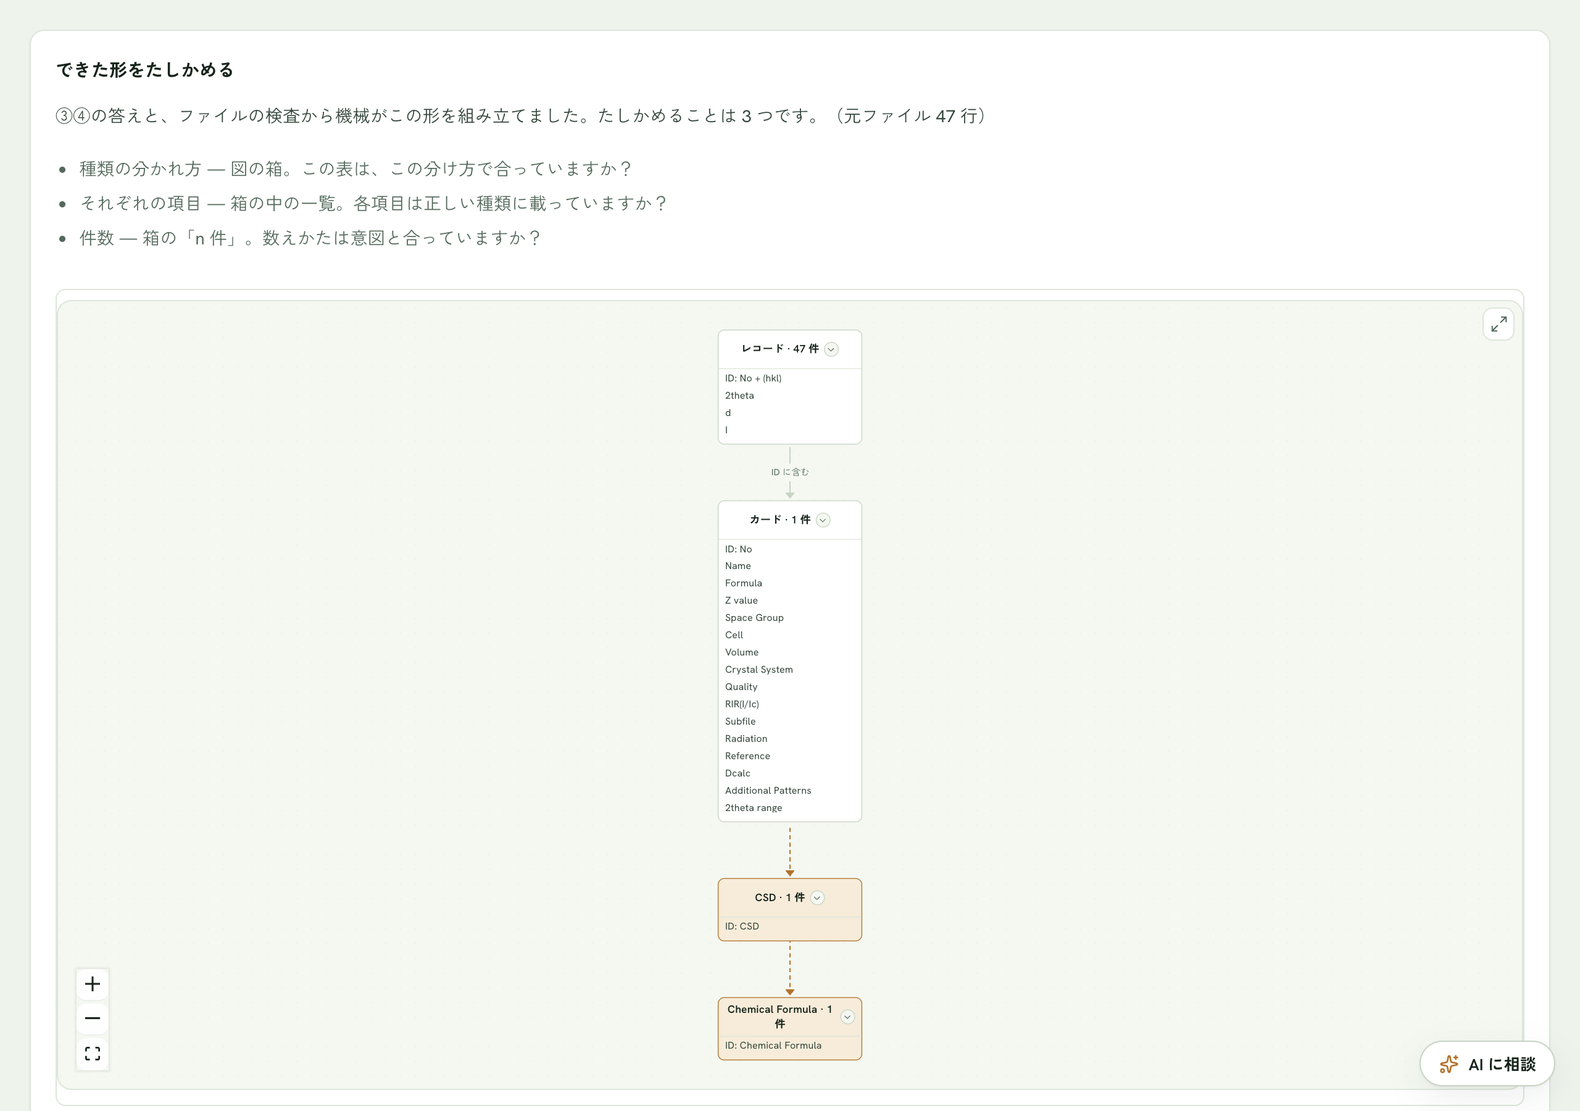
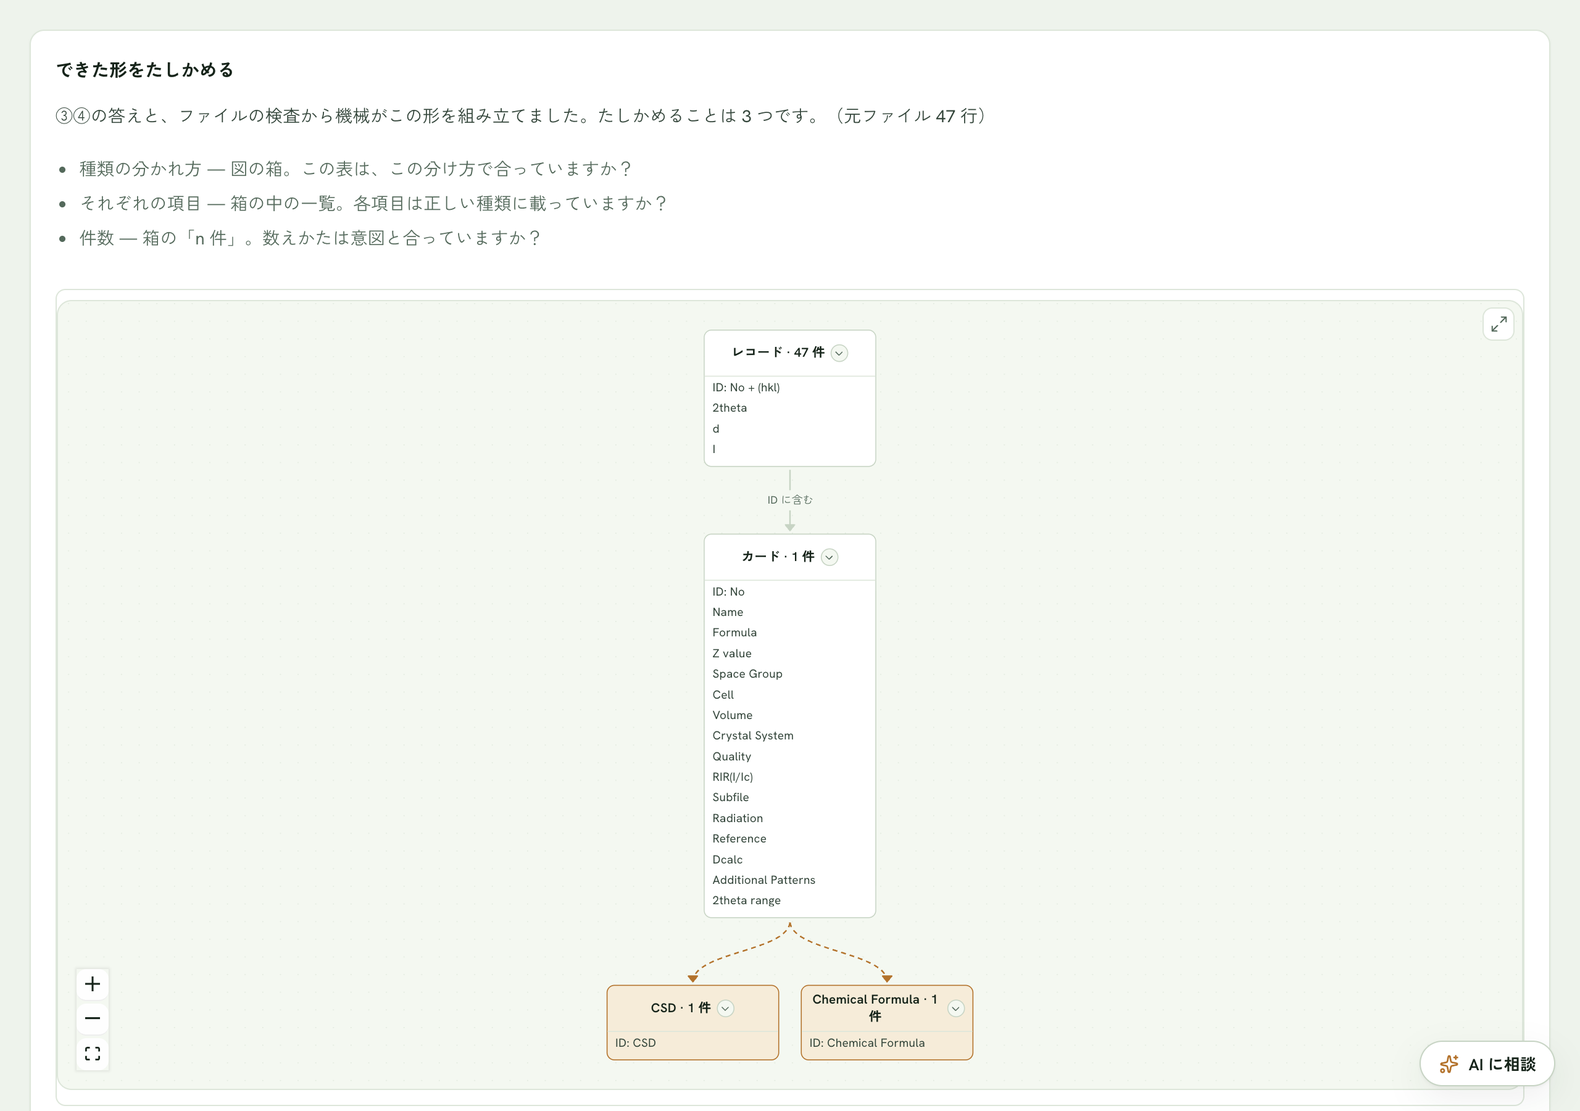
fix(ui): ⑤の情報ダイエットと表の読み順統一 — 実使用フィードバック 5 点
- 表の列順を全段で「列名 → 値 → 意味 → …」に統一（③が列名→意味→単位→値
  の並びで、②④との突き合わせで迷う — 利用者指摘）
- ④のにんじん図解を中央揃え
- ⑤の図: 同じ深さの箱を 2 列で折り返す。受け口が 2 つのとき縦の直列に
  見えて、どの箱からの線か読めなかった。layout は深さ別折り返しなので
  親子が横に並ぶことはない
- データセットの名前を「名前・ID を直す」の中へ — 既定画面では「形が
  違うとき」の見出しの下に常設情報があるように見えていた
- 「AI にもう一度考えさせる」を直しタブの 4 つ目に — 常時表示のリードと
  テキストエリアが画面の情報量を膨らませていた

結果、⑤の既定表示は「リード・確認 3 点・図・凡例・直し 4 ボタン・進む」
だけになり 1 画面に収まる。manual・スクリーンショット追随。

diff --git a/docs/manual/ja/getting-started.html b/docs/manual/ja/getting-started.html
@@ -39,10 +39,10 @@
 <ol><li>で機械が仮の ID を置いたときは、箱の中に「（仮・機械の推定）」と書かれ、</li></ol>
 <p>図の下に ⚠ が出ます。そのままでも進めますが、違うときは ⚠ の横の「名前・ID を直す」ボタンで、その種類の ID を選び直せます。また、同じ ID で数える種類が 2 つあり、しかも同じ項目を持っているときも ⚠ が出ます。重複そのものが禁止なわけではありません— 同じものの写しなら要らない方を消す、別のものなら項目を分ければ ⚠ は消えます。迷ったら「重複を AI に相談」ボタンで具体的に聞けます。</p>
 <p>3 点が合っていれば「この形で進む」ボタンで次へ。それで終わりです。4. の ☑を変えたくなったら「← ④に戻って ☑ を変える」ボタンで戻れます（戻って ☑ を変えると、形は組み立て直しになります）。</p>
-<p>形が違うときは、「形が違うとき（直す）」の下の 3 つから直しかたを選びます。</p>
-<ul><li>「名前・ID を直す」ボタン — 種類ごとの名前と ID の作り方を確かめて直します。図の箱をクリックしても、その種類の直しが開きます</li><li>「1 つの種類を 2 つに分ける」ボタン — 1 行に別々のもの（例: 測定の記録と、測定した対象）が混ざっているとき。「＋ 同じ ID で種類を足す」ボタンで、いまの ID をそのまま使う種類をもう 1 つ足し、名前を付けて「足す」ボタンを押すと種類が増えます。増やした種類に載せる項目は「項目を移す」で移します</li><li>「項目を移す」ボタン — どの種類が、どの項目を持つかの一覧が開きます。右の「載せる種類」を選び直すと、その項目を持つ種類が変わり、図の箱も同時に変わります。どの値を ID にするか（☑）は 4. で決めたとおりです — 変えたいときは「← ④に戻って ☑ を変える」ボタンを使ってください</li></ul>
+<p>形が違うときは、「形が違うとき（直す）」の下の 4 つから直しかたを選びます。</p>
+<ul><li>「名前・ID を直す」ボタン — 種類ごとの名前と ID の作り方を確かめて直します。図の箱をクリックしても、その種類の直しが開きます</li><li>「1 つの種類を 2 つに分ける」ボタン — 1 行に別々のもの（例: 測定の記録と、測定した対象）が混ざっているとき。「＋ 同じ ID で種類を足す」ボタンで、いまの ID をそのまま使う種類をもう 1 つ足し、名前を付けて「足す」ボタンを押すと種類が増えます。増やした種類に載せる項目は「項目を移す」で移します</li><li>「項目を移す」ボタン — どの種類が、どの項目を持つかの一覧が開きます。右の「載せる種類」を選び直すと、その項目を持つ種類が変わり、図の箱も同時に変わります。どの値を ID にするか（☑）は 4. で決めたとおりです — 変えたいときは「← ④に戻って ☑ を変える」ボタンを使ってください</li><li>「AI にもう一度考えさせる」ボタン — いまの設計を渡して、注文を付けたところだけ AI に直させます。この画面でやった編集（種類の名前・ID の作り方・削除・切り出し）は残ります。データセットの名前（ID に使われる英字名）は「名前・ID を直す」の中で変えられます</li></ul>
 <p>逆に、組み上がった形が行ごとの種類だけで「ファイル全体で 1 件」が無いときは、⚠ と「＋ ファイル全体の種類を作る」ボタンが出ます。押すと、ファイルに一度だけ書かれている値（カタログ番号や測定条件など）が、まとまった 1 件に分かれます。</p>
-<p>わからなければ、いったんそのまま進んで構いません。公開するまでは、この画面に戻って何度でも直せます（種類を足す・消す・項目を移す）。動かせなくなるのは、公開して ID を配ったあとだけです。相談したいときは右下の「AI に相談」ボタンで相談チャットが開きます。読み取りが違っていたら「AI にもう一度考えさせる」ボタンで指摘を伝えられます。前の画面に戻りたいときは「戻ってやり直す」ボタンです。</p>
+<p>わからなければ、いったんそのまま進んで構いません。公開するまでは、この画面に戻って何度でも直せます（種類を足す・消す・項目を移す）。動かせなくなるのは、公開して ID を配ったあとだけです。相談したいときは右下の「AI に相談」ボタンで相談チャットが開きます。前の画面に戻りたいときは「戻ってやり直す」ボタンです。</p>
 <p>続いて「数の確認」の画面が出ます。元のファイルの行数と、できた記録の件数が合っているかを見てください。件数が行数よりずっと少ないときは、複数の行が1 件にまとまっています。意図と違えば「かたちの確認に戻る」ボタンで戻れます。ここでも項目の意味・単位は直せます。問題なければ「この意味で確定」ボタンです。</p>
 <p>ID が重なっている種類があると、「進む前に、確かめてください。」という確認が出ます。種類ごとに「この行を確かめる」で中身を見て直すか、そのままでよければ「このまま進む」で先に進めます（同じ ID の行は 1 件にまとまります）。</p>
 <figure><a href="../screenshots/kantan-id-confirm.png" title="原寸で開く"><img src="../screenshots/kantan-id-confirm.png" alt="ID が重なっているときに出る確認"></a></figure>

diff --git a/ui/src/SkeletonGate.tsx b/ui/src/SkeletonGate.tsx
@@ -1082,7 +1082,7 @@ export function SkeletonGate({
      開かない = グラフを読むだけ。names = ②のタブ（名前と ID）、split = 同じ ID の
      種類を足す、move = ①の表（載せる種類）。ADR の 4 カードのうち rename と
      rekey は、両方の家である②のタブに 1 枚で相乗りする。 */
-  const [plainFix, setPlainFix] = useState<'names' | 'split' | 'move' | null>(null)
+  const [plainFix, setPlainFix] = useState<'names' | 'split' | 'move' | 'rethink' | null>(null)
   // A dataset name that cleans away to nothing (a Japanese one) used to do
   // NOTHING at all — the field kept the typed text and the ID kept the old
   // slug. Say what an ID may contain, right under the field.
@@ -1963,7 +1963,10 @@ export function SkeletonGate({
           setOpenKind(id)
           if (plain) setPlainFix('names')
         }}
-        perRow={plain ? 1 : 3}
+        /* 同じ深さの受け口が 2 つ以上あるとき、1 列だと縦に直列に見えて
+           「どの箱からの線か」が読めない（利用者指摘 2026-09-01）。layout は
+           深さ別に折り返すので、2 にしても親子が横に並ぶことはない。 */
+        perRow={plain ? 2 : 3}
         nodeWidth={176}
         maxHeight={plain ? 640 : 440}
         /* 項目は既定で全部見せる（ADR D4: 省略したら確かめられない）。畳むのは
@@ -2849,13 +2852,16 @@ export function SkeletonGate({
                 ['names', 'fixNames'],
                 ['split', 'fixSplit'],
                 ['move', 'fixMove'],
+                ['rethink', 'fixRethink'],
               ] as const
             ).map(([id, key]) => (
               <button
                 key={id}
                 type="button"
                 className={plainFix === id ? 'btn btn--sm' : 'btn btn--ghost btn--sm'}
-                disabled={id !== 'names' && !zone}
+                disabled={
+                  id === 'rethink' ? !onRethink : id !== 'names' ? !zone : false
+                }
                 onClick={() => setPlainFix(plainFix === id ? null : id)}
               >
                 {t(`skeletongate:${key}`)}
@@ -2863,6 +2869,10 @@ export function SkeletonGate({
             ))}
           </div>
 
+          {/* データセットの名前（ID の接頭）も「名前・ID」の一部 — 既定画面
+              には出さない（利用者指摘 2026-09-01: 直しの見出しの中に常設情報が
+              あるように見える）。 */}
+          {plainFix === 'names' && nsCard}
           {plainFix === 'names' && kindBlocks.length > 1 && (
             /* 種類ごとに切り替える。カードを縦に積むと、種類が増えるほど「まだ
                答えていない種類」が下へ押し出されて見えなくなる（利用者の指摘
@@ -3144,7 +3154,6 @@ export function SkeletonGate({
       {/* The kantan tier reads the table FIRST (that is the one question this
           screen asks) and meets the naming card after — settled, one line, on
           the way out. The detail tier keeps the card above the table. */}
-      {plain && nsCard}
       {/* AI-redo exit: when the skeleton is STRUCTURALLY wrong (wrong split
           into kinds, wrong key idea), editing cells is the wrong tool — hand
           a plain-language note back to the generation instead. */}
@@ -3164,7 +3173,7 @@ export function SkeletonGate({
           候補チップを主導線として残す。詳細モードは onRethink を渡していないので
           今は plain にしか出ないが、将来渡されたときに詳細モードまで畳まれない
           よう、ガードを明示しておく。 */}
-      {plain && onRethink && (
+      {plain && onRethink && plainFix === 'rethink' && (
         <div className="skeleton-rethink">
           <p className="skeleton-evidence-label" id="skeleton-rethink-label">
             {t('workbench:skeleton.rethink.label')}

diff --git a/ui/src/kantan/KantanWizard.tsx b/ui/src/kantan/KantanWizard.tsx
@@ -6383,10 +6383,13 @@ export function KantanWizard({
                   <table className="kz-preview-table kz-cols-table kz-meaning-table">
                     <thead>
                       <tr>
+                        {/* 並びは全段共通の「列名 → 値 → 意味 → …」（②の
+                            プレビュー・④のつながり表と同じ読み順 — 利用者指摘
+                            2026-09-01: 段ごとに順番が違うと突き合わせで迷う）。 */}
                         <th>{t('kantan:meanings.colColumn')}</th>
+                        <th>{t('kantan:meanings.colExamples')}</th>
                         <th>{t('kantan:meanings.colMeaning')}</th>
                         <th>{t('kantan:meanings.colUnit')}</th>
-                        <th>{t('kantan:meanings.colExamples')}</th>
                         <th>{t('kantan:meanings.colKeep')}</th>
                       </tr>
                     </thead>
@@ -6419,6 +6422,15 @@ export function KantanWizard({
                                   )}
                                 </>
                               )}
+                            </td>
+                            <td className="kz-cols-examples">
+                              {/* 実データは「見分けがつく」ところまでで十分。1 つの長い
+                                  値（この XRD カードなら注記の行）で表が横に伸び、右端の
+                                  「取り込む」が画面の外へ出た（実機 2026-08-28）。 */}
+                              {row.examples
+                                .slice(0, 3)
+                                .map((v) => (v.length > 44 ? `${v.slice(0, 44)}…` : v))
+                                .join(' / ') || '—'}
                             </td>
                             <td>
                               <input
@@ -6462,15 +6474,6 @@ export function KantanWizard({
                               {/* 書いた単位が標準（QUDT）に届いたか。届かない綴りを
                                   黙って受けると、単位の三つ組だけが出ない (ADR §3)。 */}
                               <UnitBadge info={unitInfo[(current?.unit ?? '').trim()]} />
-                            </td>
-                            <td className="kz-cols-examples">
-                              {/* 実データは「見分けがつく」ところまでで十分。1 つの長い
-                                  値（この XRD カードなら注記の行）で表が横に伸び、右端の
-                                  「取り込む」が画面の外へ出た（実機 2026-08-28）。 */}
-                              {row.examples
-                                .slice(0, 3)
-                                .map((v) => (v.length > 44 ? `${v.slice(0, 44)}…` : v))
-                                .join(' / ') || '—'}
                             </td>
                             <td>
                               {/* 既定は「取り込む」。外すのは必ず人の操作なので、

diff --git a/ui/src/App.css b/ui/src/App.css
@@ -6828,6 +6828,7 @@ button.ds-artifact:disabled {
   gap: var(--space-4);
   margin: var(--space-2) 0;
   flex-wrap: wrap;
+  justify-content: center;
 }
 .kz-links-mini {
   border: 1px solid var(--border);

diff --git a/docs/ROADMAP.md b/docs/ROADMAP.md
@@ -71,6 +71,8 @@
 
 ## 更新 log
 
+- 2026-09-01: **⑤の情報ダイエット + 表の読み順統一（branch `fix/gate-info-diet`）**。利用者の実使用フィードバック 5 点。①**表の列順を全段で「列名 → 値 → 意味 → …」に統一**（③が 列名→意味→単位→値 で、②④と突き合わせで迷う）②④のにんじん図解を中央揃え ③**⑤の図を同深度 perRow=2 に**（受け口 2 つが縦の直列に見え、どの箱からの線か読めなかった — layout は深さ別折り返しなので親子が横に並ぶことはない）④**データセットの名前を「名前・ID を直す」の中へ** ⑤**「AI にもう一度考えさせる」を直しタブの 4 つ目に**（常時表示のリード＋テキストエリアが画面の情報量を膨らませていた）。結果、⑤の既定表示は「リード・3 点・図・凡例・直し 4 ボタン・進む」だけで 1 画面に収まる。manual 追随。
+
 - 2026-09-01: **PR 溜まりの整理（v0.31.6）**。#486（dependabot の自動 major ラベル停止・護身）→ 定型 actions 更新 5 本（#481-483/#485/#501）→ #484 tauri-action 0→1（メジャー・次のデスクトップビルドで実地検証）を全部マージ。⭐#501 は #486 マージ**前**に作られたため major ラベル付きのまま — マージ後に気づき、tagpr の再計算が走り切る前にラベルを REST で剥がして v1.0.0 事故を回避（**dependabot.yml の labels 設定は既存 PR には効かない** — 既に開いている PR はマージ前にラベル確認）。#480（相談 identifiers に判断材料）は**コンフリクト＋前提陳腐化＋使い捨てハーネス混入のため close** — 価値の残る「列の実値を相談へ」は新設計前提で作り直し（#506）: ④（step 11）の consult context に step 10 と同じ columns（名前・意味・実値 3 例）を送る 1 条件の変更。基準 3 行の注入は不要になった — ④の「付けるもの/付けないもの」がマニュアル §4 経由で相談プロンプトに入っている。
 - 2026-09-01: **⑤の図を annotations 非依存に（v0.31.5・branch `fix/graph-without-annotations`）**。利用者問い「カード無し CSV で親がいない・⑤で図が出ない」。⭐検証の結果、**カード無し自体は正常**（ファイル全体の事実が無い＝親不在が正直な形。K32 の宿主フォールバックで assemble 経路の図は出る — 素の 4 行 CSV + ☑ formula で実証: レコード + formula 受け口 + 点線）。図が消えるのは **zone（annotations 依存）に図全体が入っていた**ため、annotations が無い場面（設計の見直しで元ファイル無し・検査前）で丸ごと消える構造だった。修正 = 図の一式（図・凡例・仮 ⚠）の条件を `plain && maps.length > 0` に変え、zone 無しのフォールバックを骨格だけで組む: ラベル=カタログはその列名・他は名前 ?? レコード、項目=**宣言 owns**（assemble 骨格は全種類が持つ）、琥珀=`isValueCatalog`（owns がテンプレートの単独キーと一致）、点線=同ソースの非カタログ→カタログ。annotations 完全 null で全要素（ID 行・項目・琥珀・点線）の描画をハーネス実証。件数だけは annotations 待ち（無ければラベルに出さない＝嘘をつかない）。manual に「カード無しは正常」を明記。
 - 2026-09-01: **④の値を見えるように（v0.31.4・branch `fix/links-values-visible`）**。利用者指摘=「例は値（にんじん）が主役なのに、表は列名と意味だけで値が見えない。種類なのか値なのか分からない」。②行ごとの列は「（行ごとに変わる）」だけで**実物の値が見えず**、「同じ表記で他にも出てくるか」を判断できなかった → 実際の値の例を最大 3 つ表示（`Al3 V、TiO2 …（行ごとに変わる）`）。②リード文が「値に ☑」と書いていた（☑ の単位は**列**・つながる単位は**値**）→ 「その値が入っている列に ☑」に書き換え、にんじん例で「☑ は『食材名』の列」と明示。manual 追随。

diff --git a/manual/ja/getting-started.md b/manual/ja/getting-started.md
@@ -124,7 +124,7 @@ ID の入れ子（子の ID が親の ID を含む）、点線は取り込むと
 を変えたくなったら「← ④に戻って ☑ を変える」ボタンで戻れます（戻って ☑ を
 変えると、形は組み立て直しになります）。
 
-形が違うときは、「形が違うとき（直す）」の下の 3 つから直しかたを選びます。
+形が違うときは、「形が違うとき（直す）」の下の 4 つから直しかたを選びます。
 
 - 「名前・ID を直す」ボタン — 種類ごとの名前と ID の作り方を確かめて直し
   ます。図の箱をクリックしても、その種類の直しが開きます
@@ -136,6 +136,10 @@ ID の入れ子（子の ID が親の ID を含む）、点線は取り込むと
   右の「載せる種類」を選び直すと、その項目を持つ種類が変わり、図の箱も同時に
   変わります。どの値を ID にするか（☑）は 4. で決めたとおりです — 変えたい
   ときは「← ④に戻って ☑ を変える」ボタンを使ってください
+- 「AI にもう一度考えさせる」ボタン — いまの設計を渡して、注文を付けた
+  ところだけ AI に直させます。この画面でやった編集（種類の名前・ID の作り方・
+  削除・切り出し）は残ります。データセットの名前（ID に使われる英字名）は
+  「名前・ID を直す」の中で変えられます
 
 逆に、組み上がった形が行ごとの種類だけで「ファイル全体で 1 件」が無いときは、
 ⚠ と「＋ ファイル全体の種類を作る」ボタンが出ます。押すと、ファイルに一度
@@ -145,9 +149,8 @@ ID の入れ子（子の ID が親の ID を含む）、点線は取り込むと
 わからなければ、いったんそのまま進んで構いません。公開するまでは、この画面
 に戻って何度でも直せます（種類を足す・消す・項目を移す）。動かせなくなるの
 は、公開して ID を配ったあとだけです。相談したいときは右下の「AI に相談」
-ボタンで相談チャットが開きます。読み取りが違っていたら
-「AI にもう一度考えさせる」ボタンで指摘を伝えられます。前の画面に戻りたい
-ときは「戻ってやり直す」ボタンです。
+ボタンで相談チャットが開きます。前の画面に戻りたいときは「戻ってやり直す」
+ボタンです。
 
 続いて「数の確認」の画面が出ます。元のファイルの行数と、できた記録の件数が
 合っているかを見てください。件数が行数よりずっと少ないときは、複数の行が
